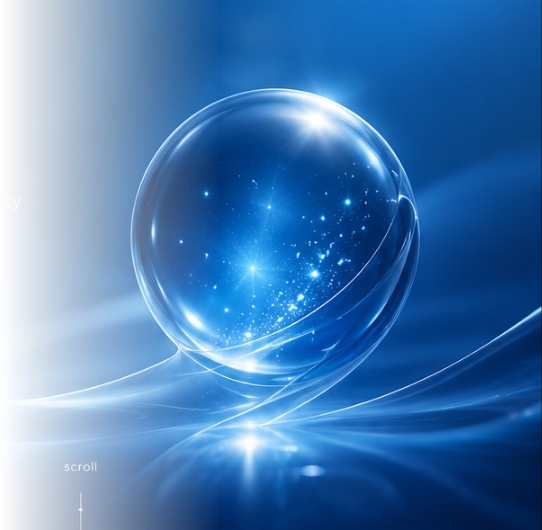
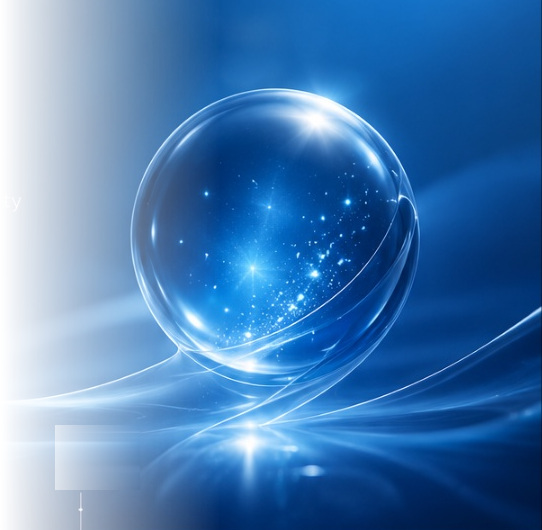
Remove scroll from orb image, fix mobile orb position

Changed region(s): [[0.0886, 0.7849, 0.1771, 0.9358]]

diff --git a/style.css b/style.css
@@ -115,7 +115,6 @@ button{font:inherit;cursor:pointer}
   opacity:.95;
   pointer-events:none;
   z-index:0;
-  clip-path:inset(0 0 30% 0);
 }
 .hero-inner{position:relative;z-index:2;padding:90px 0 60px}
 .hero-mark{width:min(430px,72vw);margin-bottom:26px}
@@ -307,7 +306,7 @@ html[data-lang="kr"] .page-hero .sub{max-width:780px;font-size:15px}
   .contact-photo-col{grid-column:1;grid-row:2;padding-top:0;display:flex;justify-content:center}
   .contact-photo-col .company-photo{width:67%}
   .contact-grid>.contact-card{grid-column:1;grid-row:3}
-  .hero-orb{width:100%;opacity:.55}
+  .hero-orb{width:80%;opacity:.55;background-position:right center}
 }
 
 @media (max-width:720px){
